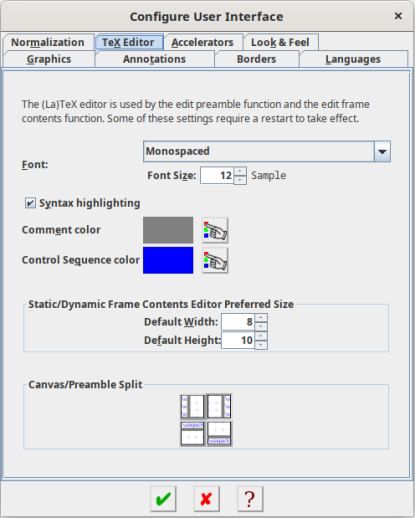
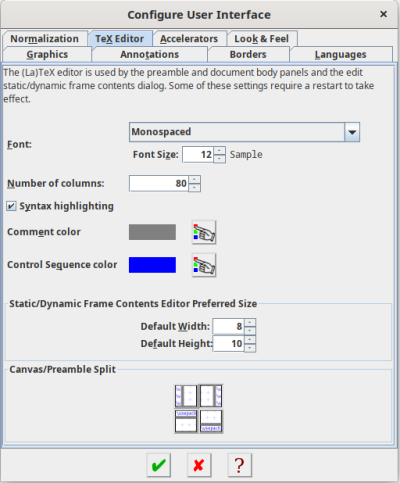
tidied TeXEditorUIPanel

diff --git a/src/java/flowframtk/dialog/TeXEditorUIPanel.java b/src/java/flowframtk/dialog/TeXEditorUIPanel.java
@@ -24,6 +24,7 @@ import java.awt.event.*;
 import javax.swing.*;
 import javax.swing.event.*;
 
+import com.dickimawbooks.texjavahelplib.JLabelGroup;
 import com.dickimawbooks.jdrresources.*;
 import com.dickimawbooks.flowframtk.*;
 
@@ -32,128 +33,112 @@ public class TeXEditorUIPanel extends JPanel
 {
    public TeXEditorUIPanel(FlowframTk application)
    {
-      super(new GridBagLayout());
-      GridBagConstraints gbc = new GridBagConstraints();
+      super(null);
 
+      this.application = application;
       resources = application.getResources();
 
-      gbc.gridx=0;
-      gbc.gridy=0;
-      gbc.gridwidth=2;
-      gbc.gridheight=1;
-      gbc.insets=new Insets(2, 2, 2, 2);
-      gbc.fill=GridBagConstraints.HORIZONTAL;
-      gbc.anchor=GridBagConstraints.LINE_START;
+      init();
+   }
 
-      add(resources.createAppInfoArea("texeditorui.info"), gbc);
-      gbc.gridy++;
-      add(Box.createVerticalStrut(10), gbc);
+   protected void init()
+   {
+      setLayout(new BoxLayout(this, BoxLayout.PAGE_AXIS));
+      setAlignmentX(0f);
 
-      gbc.gridwidth=1;
-      gbc.fill=GridBagConstraints.NONE;
-      gbc.gridy++;
+      JTextArea infoArea = resources.createAppInfoArea("texeditorui.info");
+      infoArea.setRows(3);
+      infoArea.setAlignmentX(0f);
+      add(infoArea);
+
+      JLabelGroup labelGroup = new JLabelGroup();
+      JComponent row = createRow();
+      add(row);
+
       JLabel fontNameLabel = resources.createAppLabel("texeditorui.font");
-      add(fontNameLabel, gbc);
+      labelGroup.add(fontNameLabel);
+      row.add(fontNameLabel);
 
       fontSelector = new JavaFontSelector(application,
         fontNameLabel, null, null, "texeditorui.fontsize");
 
-      gbc.gridx++;
-      add(fontSelector, gbc);
+      row.add(resources.createLabelSpacer());
+      row.add(fontSelector);
 
-      gbc.gridx=0;
-      gbc.gridy++;
+      row = createRow();
+      add(row);
 
       JLabel colWidthLabel = resources.createAppLabel("texeditorui.num_columns");
-      add(colWidthLabel, gbc);
+      labelGroup.add(colWidthLabel);
+      row.add(colWidthLabel);
 
       colNumModel = new SpinnerNumberModel(80, 1, 10000, 1);
       JSpinner colNumSpinner = new JSpinner(colNumModel);
       colWidthLabel.setLabelFor(colNumSpinner);
 
-      gbc.gridx++;
-      add(colNumSpinner, gbc);
+      row.add(resources.createLabelSpacer());
+      row.add(colNumSpinner);
+
+      row.add(Box.createVerticalStrut(20));
 
       highlightCheckBox = resources.createAppCheckBox("texeditorui",
         "highlight", true, this);
 
-      gbc.gridwidth = 2;
-      gbc.gridx=0;
-      gbc.gridy++;
+      add(highlightCheckBox);
 
-      add(highlightCheckBox, gbc);
-
-      gbc.gridwidth = 1;
-      gbc.gridx=0;
-      gbc.gridy++;
+      row = createRow();
+      add(row);
 
       commentColorLabel = resources.createAppLabel("texeditorui.comment");
+      labelGroup.add(commentColorLabel);
 
-      gbc.gridy++;
-      add(commentColorLabel, gbc);
+      row.add(commentColorLabel);
 
-      JComponent panel = Box.createHorizontalBox();
+      commentColorPanel = createSwatch();
 
-      gbc.gridx++;
-      add(panel, gbc);
+      row.add(resources.createLabelSpacer());
+      row.add(commentColorPanel);
 
-      commentColorPanel = new JPanel();
-      commentColorPanel.setPreferredSize(new Dimension(60, 20));
-      commentColorPanel.setOpaque(true);
-
-      panel.add(commentColorPanel);
-
-      panel.add(Box.createHorizontalStrut(10));
+      row.add(resources.createButtonSpacer());
 
       commentSelectButton = resources.createDialogButton(
          "button.choose_colour", "choose_colour", this, null);
       commentSelectButton.setActionCommand("commentselect");
       commentColorLabel.setLabelFor(commentSelectButton);
 
-      panel.add(commentSelectButton);
+      row.add(commentSelectButton);
+
+      row = createRow();
+      add(row);
 
       csColorLabel = resources.createAppLabel("texeditorui.cs");
+      labelGroup.add(csColorLabel);
 
-      gbc.gridx=0;
-      gbc.gridy++;
-      add(csColorLabel, gbc);
+      row.add(csColorLabel);
 
-      panel = Box.createHorizontalBox();
+      csColorPanel = createSwatch();
 
-      gbc.gridx++;
-      add(panel, gbc);
+      row.add(resources.createLabelSpacer());
+      row.add(csColorPanel);
 
-      csColorPanel = new JPanel();
-      csColorPanel.setPreferredSize(new Dimension(60, 20));
-      csColorPanel.setOpaque(true);
-
-      panel.add(csColorPanel);
-
-      panel.add(Box.createHorizontalStrut(10));
+      row.add(resources.createButtonSpacer());
 
       csSelectButton = resources.createDialogButton(
          "button.choose_colour", "choose_colour", this, null);
       csSelectButton.setActionCommand("csselect");
       csColorLabel.setLabelFor(csSelectButton);
 
-      panel.add(csSelectButton);
+      row.add(csSelectButton);
 
       colorChooser = new JColorChooser();
 
-      gbc.gridx=0;
-      gbc.gridy++;
-      gbc.gridwidth=2;
-      gbc.fill=GridBagConstraints.BOTH;
-      add(Box.createVerticalStrut(20), gbc);
-
-      gbc.gridy++;
-      gbc.gridx=0;
-      gbc.gridwidth=3;
+      add(Box.createVerticalStrut(20));
 
       JComponent prefSizeComp = new JPanel(new GridBagLayout());
+      prefSizeComp.setAlignmentX(0f);
       GridBagConstraints prefSizeGbc = new GridBagConstraints();
 
-      add(prefSizeComp, gbc);
+      add(prefSizeComp);
 
       prefSizeComp.setBorder(BorderFactory.createTitledBorder(
          resources.getMessage("texeditorui.dim")));
@@ -195,15 +180,11 @@ public class TeXEditorUIPanel extends JPanel
       prefSizeGbc.gridx++;
       prefSizeComp.add(heightField, prefSizeGbc);
 
-      gbc.gridy++;
-      gbc.gridx=0;
-      gbc.gridwidth=3;
+      row.add(Box.createVerticalStrut(20));
 
-      add(Box.createVerticalStrut(20), gbc);
-
-      gbc.gridy++;
       JComponent splitComp = new JPanel(new GridBagLayout());
-      add(splitComp, gbc);
+      splitComp.setAlignmentX(0f);
+      add(splitComp);
 
       GridBagConstraints splitGbc = new GridBagConstraints();
       splitGbc.fill=GridBagConstraints.NONE;
@@ -240,6 +221,25 @@ public class TeXEditorUIPanel extends JPanel
       splitComp.add(belowButton, splitGbc);
    }
 
+   protected JComponent createRow()
+   {
+      JComponent row = new JPanel(new FlowLayout(FlowLayout.LEADING));
+      row.setAlignmentX(0f);
+      return row;
+   }
+
+   protected JComponent createSwatch()
+   {
+      JComponent comp = new JPanel();
+      Dimension dim = new Dimension(60, 20);
+      comp.setPreferredSize(dim);
+      comp.setMinimumSize(dim);
+      comp.setMaximumSize(dim);
+      comp.setOpaque(true);
+
+      return comp;
+   }
+
    public void actionPerformed(ActionEvent evt)
    {
       String action = evt.getActionCommand();
@@ -274,7 +274,7 @@ public class TeXEditorUIPanel extends JPanel
       }
    }
 
-   public void initialise(FlowframTk application)
+   public void initialise()
    {
       Color col = application.getCommentHighlight();
       commentColorPanel.setBackground(col);
@@ -317,7 +317,7 @@ public class TeXEditorUIPanel extends JPanel
       }
    }
 
-   public void okay(FlowframTk application)
+   public void okay()
    {
       FlowframTkSettings settings = application.getSettings();
 
@@ -378,7 +378,7 @@ public class TeXEditorUIPanel extends JPanel
    private JavaFontSelector fontSelector;
    private SpinnerNumberModel widthModel, heightModel, colNumModel;
    private JCheckBox highlightCheckBox;
-   private JPanel commentColorPanel, csColorPanel;
+   private JComponent commentColorPanel, csColorPanel;
    private JColorChooser colorChooser;
    private JLabel commentColorLabel, csColorLabel;
    private JButton commentSelectButton, csSelectButton;
@@ -386,4 +386,5 @@ public class TeXEditorUIPanel extends JPanel
    private JRadioButton leftButton, rightButton, aboveButton, belowButton;
 
    private JDRResources resources;
+   private FlowframTk application;
 }

diff --git a/src/doc/en/flowframtk-main.tex b/src/doc/en/flowframtk-main.tex
@@ -2704,13 +2704,27 @@ normalization factors.
   {\includeimg{configureUI-texeditorui}}
   {Configuration UI Dialog Box (TeX Editor Settings)}
 
-\FlowframTk\ has small text editor that's opened when you want to
-edit the contents of a static or dynamic frame.
-The font used by this editor can be changed in the
-\widget{texeditorui.title} tab (\figureref{fig:texeditorui}).
-You can also set the default width (in terms of approximate number
-of characters per line) and the default height (in terms of lines)
-for the editor when it's first created at startup.
+\FlowframTk\ has small text editor (\sectionref{sec:texeditor})
+that's opened when you want to edit the contents of a static or
+dynamic frame.  The font used by this editor can be changed in the
+\widget{texeditorui.title} tab (\figureref{fig:texeditorui}).  You
+can also set the default width (in terms of approximate number of
+characters per line) and the default height (in terms of lines) for
+the editor when it's first created at startup.
+
+The \gls{index.menu.texeditor} popup menu item
+\menu{texeditor.settings} opens a dialog that has just the
+\dialog{texeditorui} panel, without all the other UI configuration
+options.
+
+\widgetdef{texeditorui.num_columns}
+
+The \widget{texeditorui.num_columns} setting controls the line
+wrapping. The line width is calculated according to this value
+multiplied by the width of the widest character (identified by
+\verb|lang.widest_char| in the localisation file) rendered in the specified
+font. If the editor width is narrower than this, scroll
+bars will appear.
 
 \widgetdef{texeditorui.highlight}
 
@@ -2728,10 +2742,16 @@ uses these settings.
 In \FlowframTk\ version 0.7, this editor window was also used for changing the
 preamble text, but as from version~0.8, the preamble editor has been
 switched to a pane attached to the \gls{canvas} that can remain open
-while you're editing the image. This pane uses these settings,
+while you're editing the image. There are now multiple preamble
+panes, and also a pane for the document body and magic comments.
+
+These editor panes also use the \dialog{texeditorui} settings,
 except for the default width and height, which is now governed
-by the size of the \gls{canvas} window and the location of the
-divider. By default, the preamble pane is to the right of the
+by the size of the \gls{canvas} window and the number of columns. 
+You can move the divider between the \gls{canvas} and preamble area 
+to resize the editor panes.
+
+By default, the preamble pane is to the right of the
 \gls{canvas}, but you can change this using the radio buttons in the
 \widget{texeditorui.split} area.
 
@@ -12204,6 +12224,11 @@ The \widget{replace.replace} button will replace the found text.
 
 \widgetdef{replace.replace_all}%
 The \widget{replace.replace_all} button will replace all occurrences.
+
+\menudef{menu.texeditor.settings}
+The \menu{texeditor.settings} function opens the \dialog{texeditorui}
+dialog. This has the same layout as the \dialog{texeditorui} panel
+of the \dialog{configui} (see \sectionref{sec:texeditorui}).
 
 \seealsorefs{
  sec:texconfig,

diff --git a/src/java/flowframtk/dialog/ConfigUISettingsDialog.java b/src/java/flowframtk/dialog/ConfigUISettingsDialog.java
@@ -232,7 +232,7 @@ public class ConfigUISettingsDialog extends JDialog
       rulerFormatPanel.initialise(application);
       normalizePanel.initialise(application);
       langPanel.initialise();
-      texEditorUIPanel.initialise(application);
+      texEditorUIPanel.initialise();
 
       annotationsPanel.initialise(application.getSettings());
 
@@ -274,7 +274,7 @@ public class ConfigUISettingsDialog extends JDialog
       dragScale.okay(application);
       controlPointsPanel.okay(application);
       renderPanel.okay(application);
-      texEditorUIPanel.okay(application);
+      texEditorUIPanel.okay();
       annotationsPanel.okay(application.getSettings());
 
       lookAndFeelPanel.okay();

diff --git a/src/java/flowframtk/dialog/TeXEditorUIDialog.java b/src/java/flowframtk/dialog/TeXEditorUIDialog.java
@@ -37,7 +37,7 @@ public class TeXEditorUIDialog extends JDialog
 
       texEditorUIPanel = new TeXEditorUIPanel(application);
 
-      getContentPane().add(texEditorUIPanel, "Center");
+      getContentPane().add(new JScrollPane(texEditorUIPanel), "Center");
 
       // OK/Cancel Button panel
 
@@ -68,14 +68,14 @@ public class TeXEditorUIDialog extends JDialog
 
    public void display()
    {
-      texEditorUIPanel.initialise(application_);
+      texEditorUIPanel.initialise();
 
       setVisible(true);
    }
 
    public void okay()
    {
-      texEditorUIPanel.okay(application_);
+      texEditorUIPanel.okay();
 
       setVisible(false);
    }

diff --git a/src/java/flowframtk/dialog/LaTeXCodeBlockEditor.java b/src/java/flowframtk/dialog/LaTeXCodeBlockEditor.java
@@ -102,6 +102,8 @@ public class LaTeXCodeBlockEditor extends JPanel
       replaceItem = createButtonItem("menu.texeditor", "replace",
         toolBar, popupM);
 
+      popupM.addSeparator();
+
       createButtonItem("menu.texeditor", "settings",
         toolBar, popupM);
 
